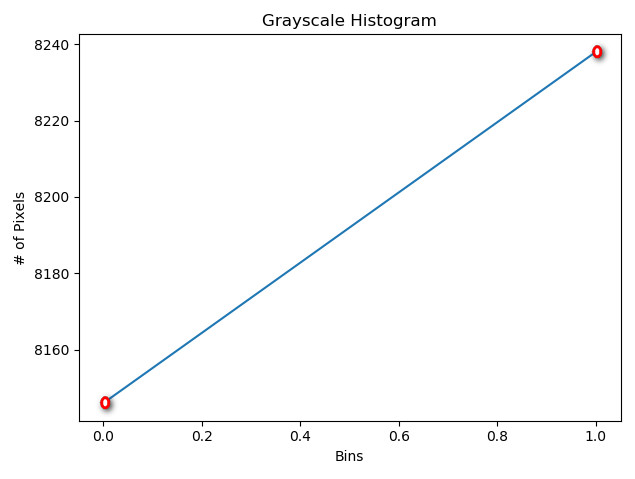
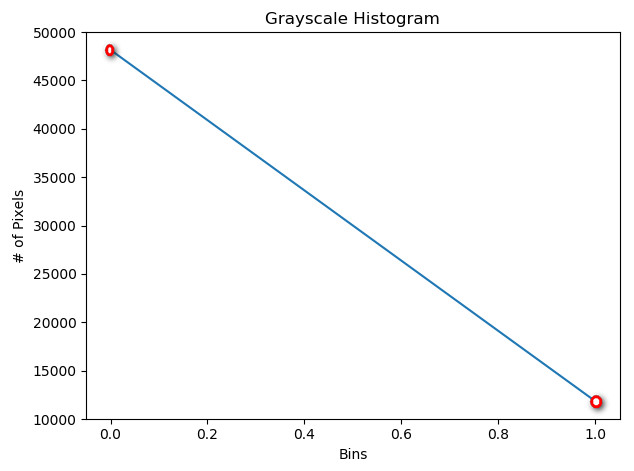
add 101

diff --git a/Question_101_110/answers/answer_101.py b/Question_101_110/answers/answer_101.py
@@ -1,7 +1,7 @@
 import cv2
 from scipy.ndimage import imread
 from matplotlib import pyplot as plt
-img = imread(r'D:\repository4github\ImageProcessing100Wen\Tutorial\images\imori.jpg','L')
+img = imread(r'D:\repository4github\ImageProcessing100Wen\Tutorial\images\seg.png','L')
 # img = imread('../Tutorial/images/imori.jpg', 'L')
 hist = cv2.calcHist([img], [0], None, [2], [0, 256])
 peakind1 = hist[0]

diff --git a/Tutorial/README_part3.md b/Tutorial/README_part3.md
@@ -10,6 +10,11 @@
 第二种方法是，如果对于上一种的情况会出现反例的情况，我们可以先对四周的像素进行全采样，
 一般情况下，图片周边的像素更多的一定是背景像素，它所对应的类别便是背景。
 
+| 输入 (images/seg.png) | 输出(answers/answer_101.jpg) |
+| :------------: | :-------------------------: |
+|  ![](images/seg.png)  | ![](answers/answer_101.jpg)  |
+
+可以看到，我们输出是两个类别，黑色像素值有48154.0 白色像素值有11846.0，黑色个数远多于白色个数，所以可以认定这是一个黑底白字的图像。
 
 答案 >> [answers/answer_101.py](https://github.com/yeLer/ImageProcessing100Wen/tree/master/Question_101_110/answers/answer_101.py)
 
